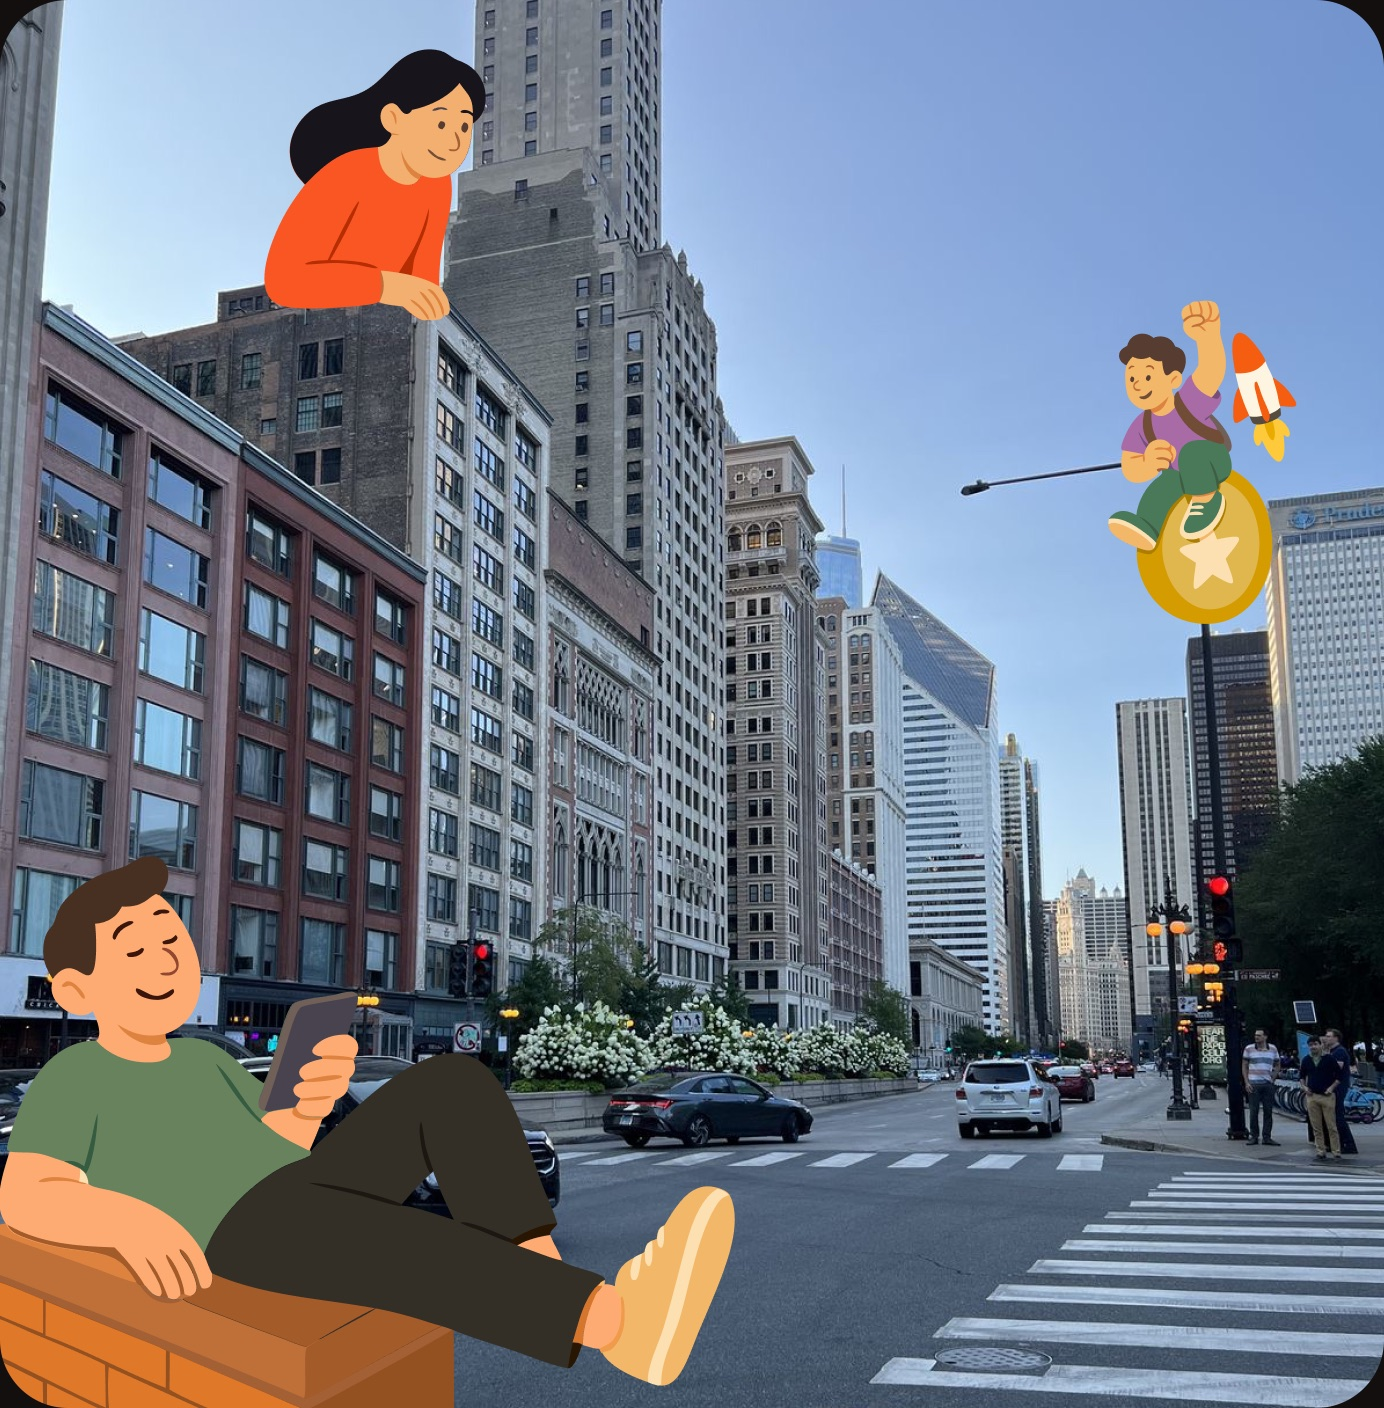
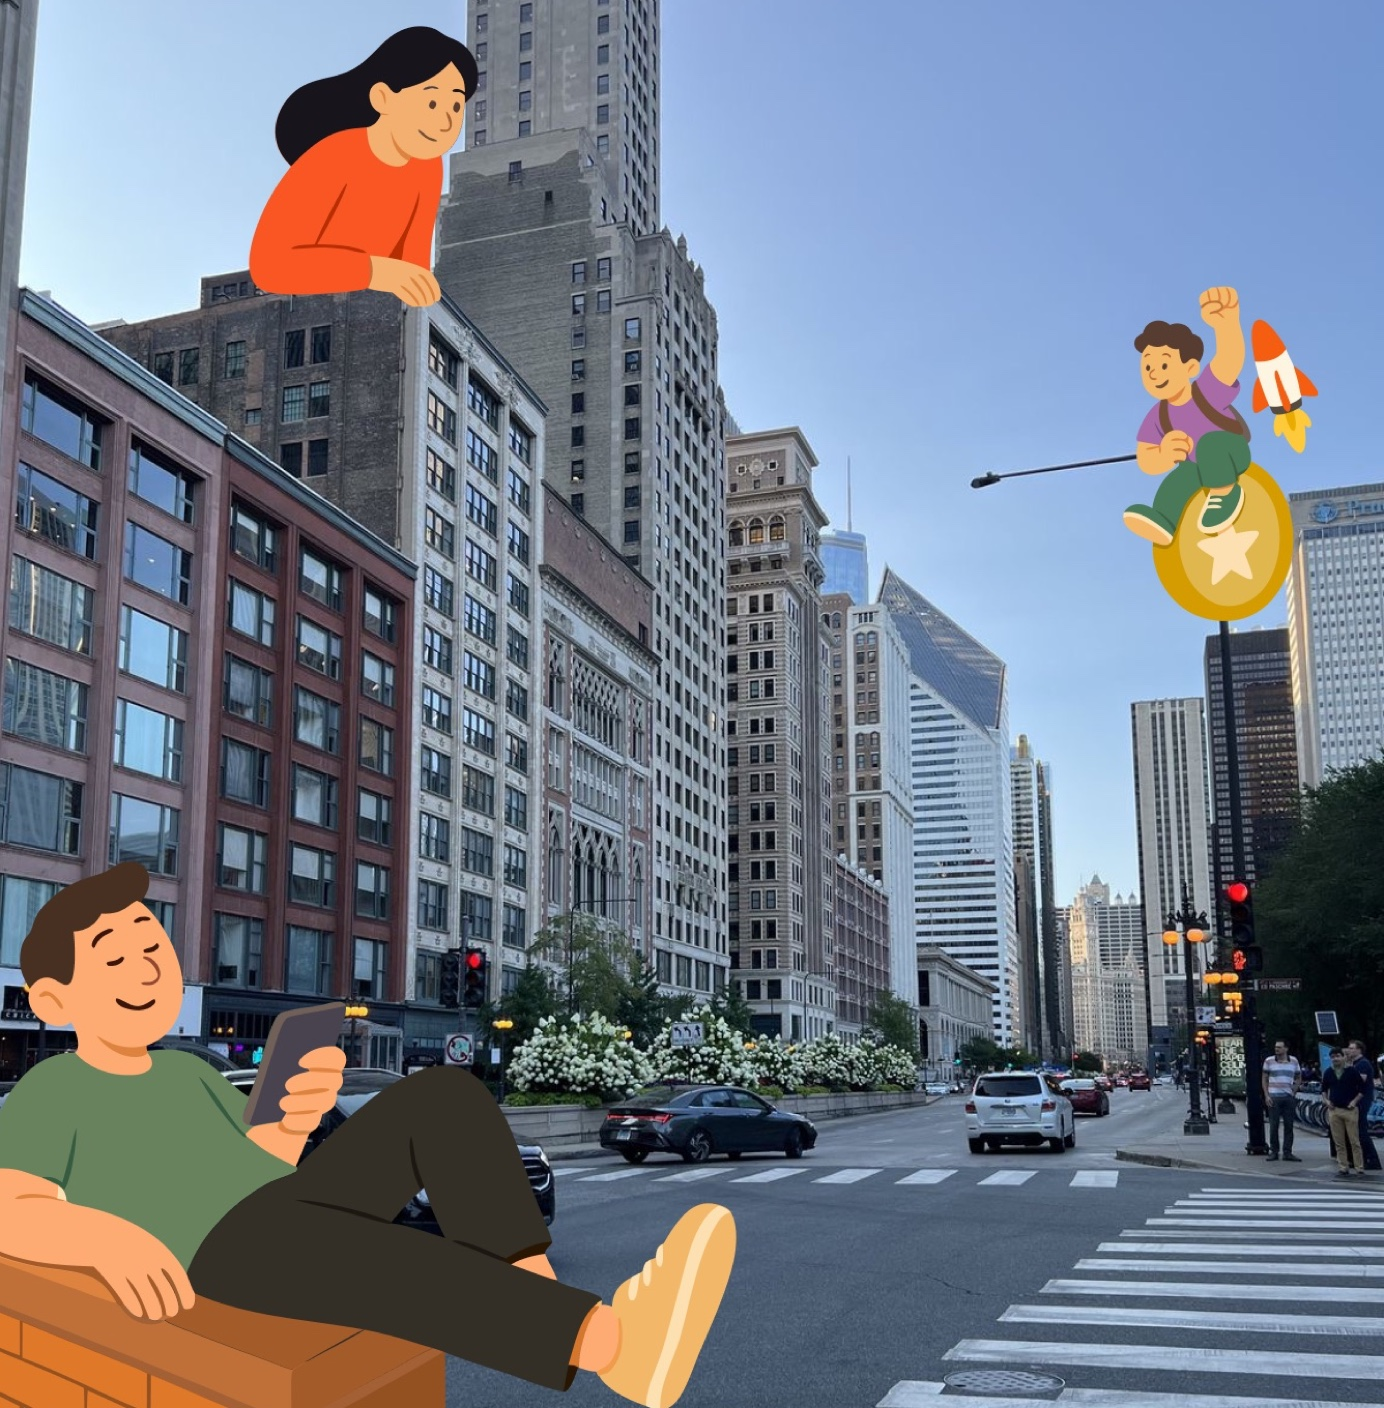
Remove corner radius from Glint typography cards and palette

diff --git a/works.html b/works.html
@@ -7,7 +7,7 @@
   <link rel="preconnect" href="https://fonts.googleapis.com">
   <link rel="preconnect" href="https://fonts.gstatic.com" crossorigin>
   <link href="https://fonts.googleapis.com/css2?family=Geist+Mono:wght@500;600&family=Inter:opsz,wght@14..32,400;14..32,500&family=Nanum+Myeongjo&family=Barlow:wght@500&display=swap" rel="stylesheet">
-  <link rel="stylesheet" href="styles.css?v=24">
+  <link rel="stylesheet" href="styles.css?v=25">
 </head>
 <body>
   <div class="page-top">
@@ -114,6 +114,6 @@
     <article class="case-sheet"></article>
   </div>
 
-  <script src="case-study.js?v=31" defer></script>
+  <script src="case-study.js?v=32" defer></script>
 </body>
 </html>

diff --git a/index.html b/index.html
@@ -7,7 +7,7 @@
   <link rel="preconnect" href="https://fonts.googleapis.com">
   <link rel="preconnect" href="https://fonts.gstatic.com" crossorigin>
   <link href="https://fonts.googleapis.com/css2?family=Geist+Mono:wght@500;600&family=Inter:opsz,wght@14..32,400;14..32,500&family=Nanum+Myeongjo&family=Barlow:wght@500&display=swap" rel="stylesheet">
-  <link rel="stylesheet" href="styles.css?v=24">
+  <link rel="stylesheet" href="styles.css?v=25">
 </head>
 <body>
   <main class="hero">
@@ -192,6 +192,6 @@
     <article class="case-sheet"></article>
   </div>
 
-  <script src="case-study.js?v=31" defer></script>
+  <script src="case-study.js?v=32" defer></script>
 </body>
 </html>

diff --git a/case-study.js b/case-study.js
@@ -354,7 +354,7 @@
           variant: "pair",
           images: [
             { src: "assets/work/glint-type.png", alt: "Open Runde type specimen: a large orange “Aa” with Regular, Medium and Semibold tags", fit: "contain", background: "#FFE8D5" },
-            { src: "assets/work/glint-city.jpg", alt: "Glint illustrated characters playing across a city street photo", fit: "contain", background: "#130F0E" },
+            { src: "assets/work/glint-city.jpg?v=2", alt: "Glint illustrated characters playing across a city street photo", fit: "contain", background: "#130F0E" },
           ],
         },
         {

diff --git a/styles.css b/styles.css
@@ -825,7 +825,7 @@ html[data-input="keyboard"] .case-close:focus-visible {
   gap: 12px;
   padding: 32px;
   overflow: hidden;
-  border-radius: 28px;
+  border-radius: 0;
   font-family: "Open Runde", var(--font-display);
 }
 
@@ -1463,7 +1463,6 @@ html[data-input="keyboard"] .case-close:focus-visible {
   .swatch {
     gap: 8px;
     padding: 20px;
-    border-radius: 20px;
   }
 
   .swatch__name {
